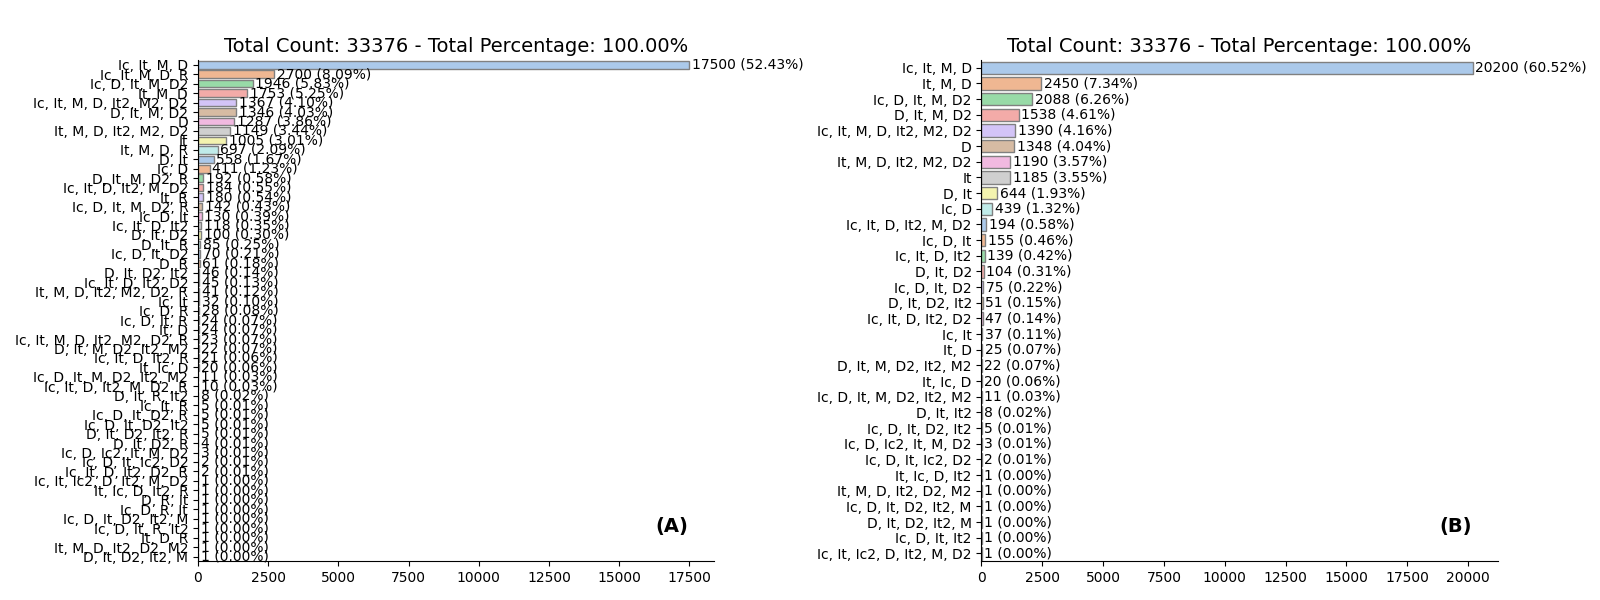
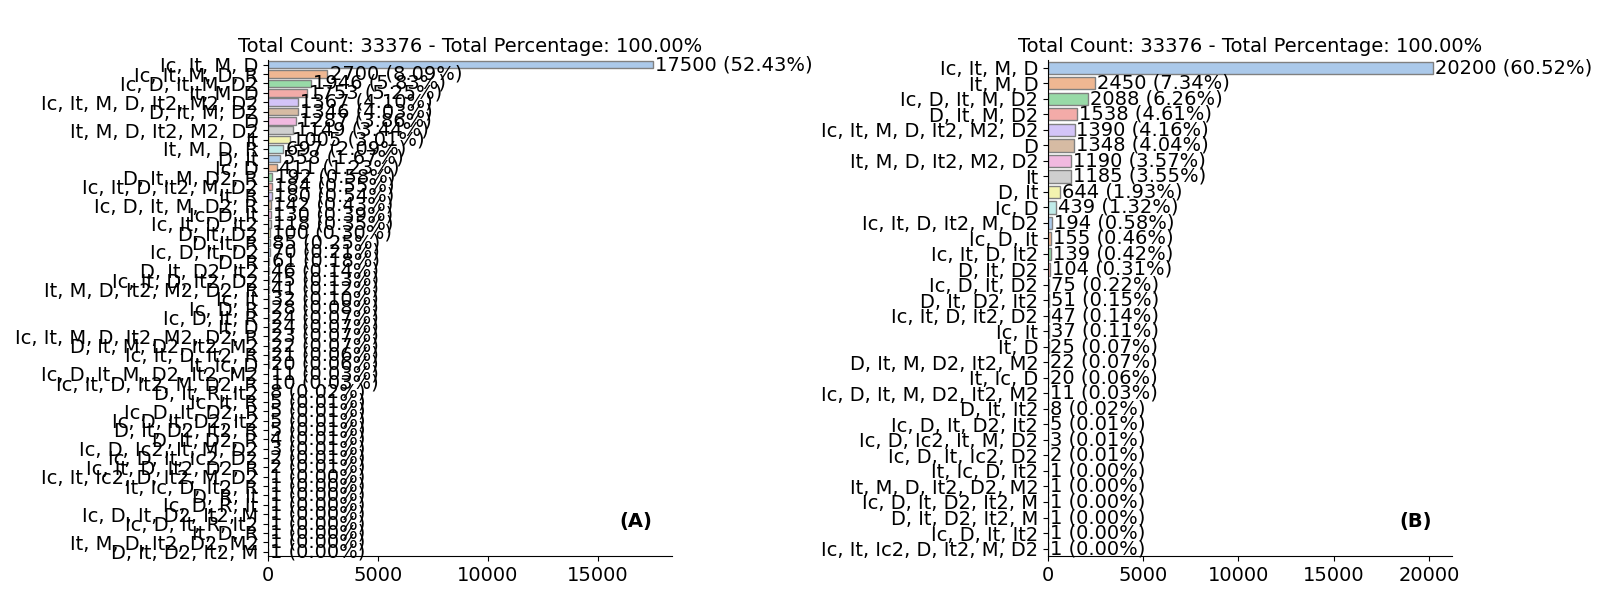
improved figures

diff --git a/src_manuscript_life-cycle/barplot_statistics.py b/src_manuscript_life-cycle/barplot_statistics.py
@@ -72,12 +72,14 @@ def plot_barplot(df, label, ax, suffix):
     for index, value in enumerate(df['Total Count']):
         percentage = df.loc[df.index[index], 'Percentage']
         if orient == 'h':
-            ax.text(value + 100, index, f"{value} ({percentage:.2f}%)", va='center', color='black')
+            ax.text(value + 100, index, f"{value} ({percentage:.2f}%)", va='center', color='black',
+                    fontsize=14)
         else:
             ax.text(index, value + 100, f"{value} ({percentage:.2f}%)", ha='center', color='black')
 
     ax.set_xlabel(None)
     ax.set_ylabel(None)
+    ax.tick_params(axis='both', labelsize=14)
 
     # Add text annotations for total count and percentage
     total_count = df['Total Count'].sum()
